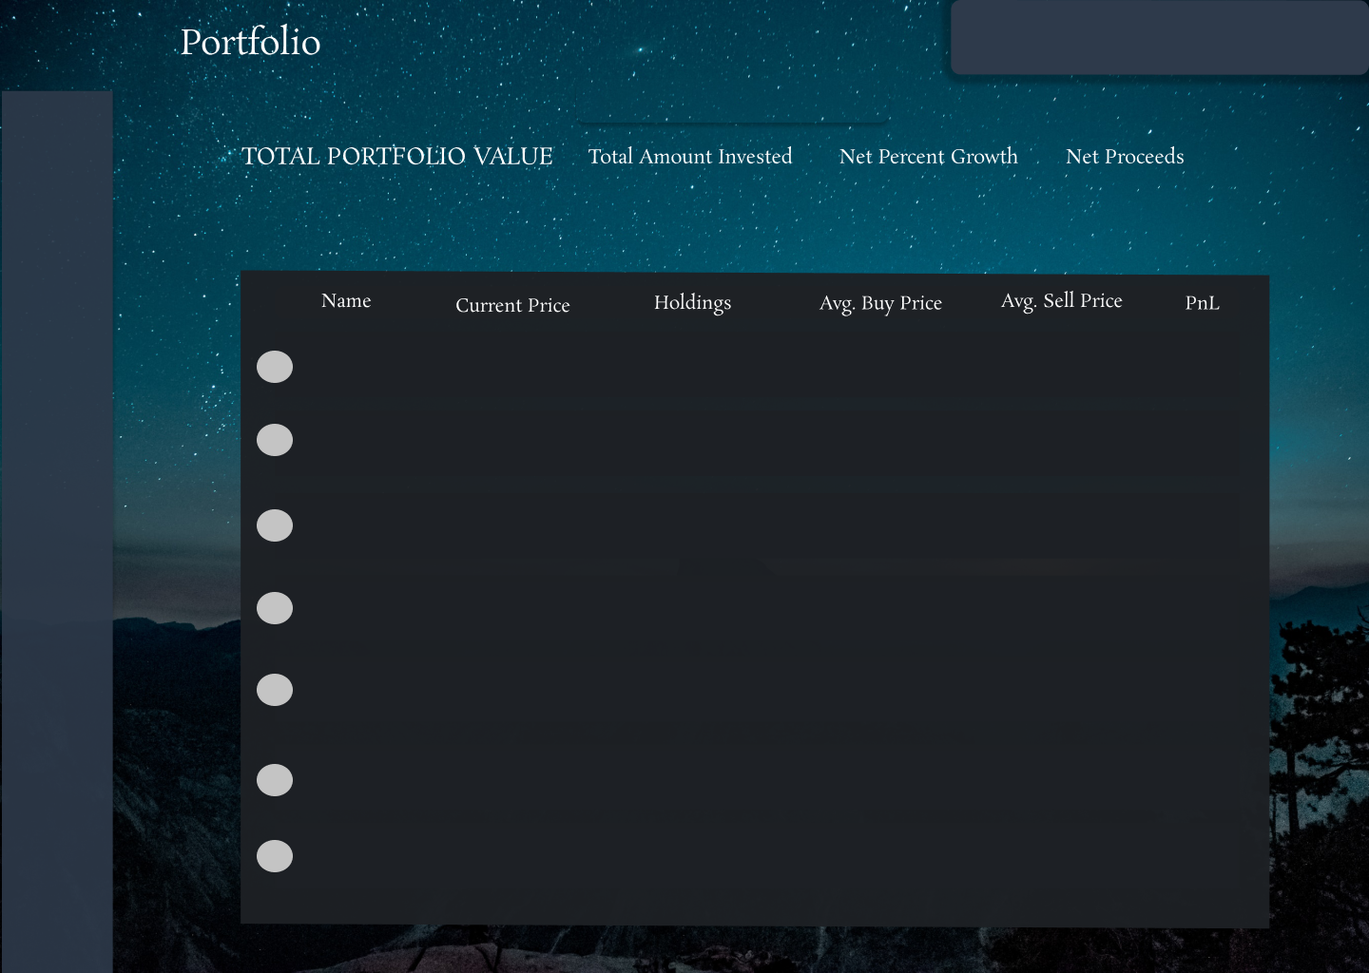
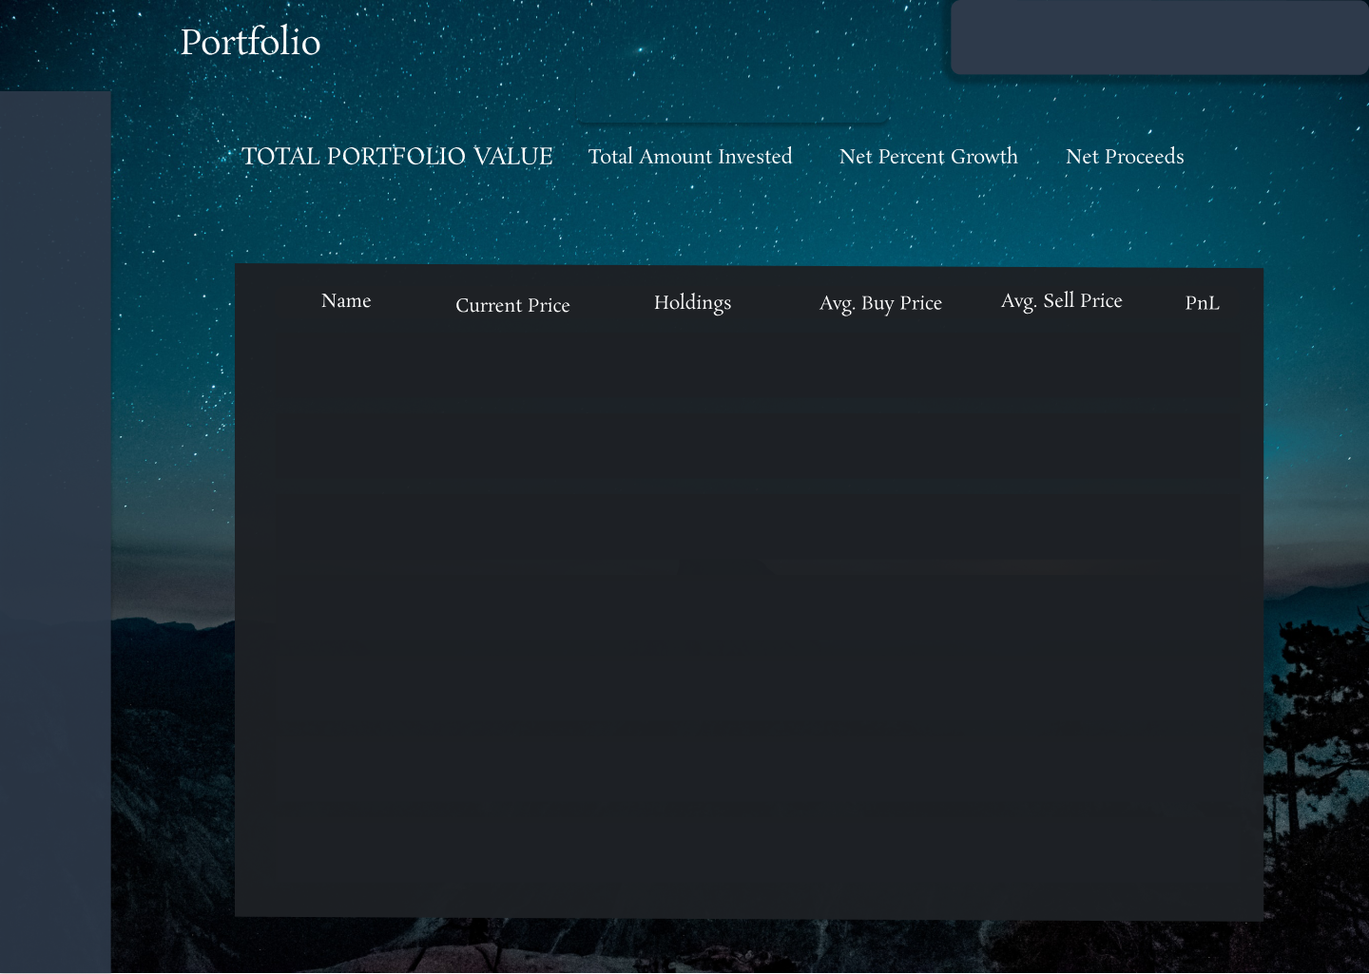
portfolio now generates

diff --git a/user_interface.py b/user_interface.py
@@ -1484,11 +1484,11 @@ class Portfolio(tk.Frame):
 
         flash_delay = 100  # in milliseconds.
 
-        canvas = Canvas(self, bg="#ffffff", height=1024, width=1440, bd=0, highlightthickness=0, relief="ridge")
-        canvas.place(x=0, y=0)
+        self.canvas = Canvas(self, bg="#ffffff", height=1024, width=1440, bd=0, highlightthickness=0, relief="ridge")
+        self.canvas.place(x=0, y=0)
 
         self.background_img = PhotoImage(file=f"Collection of all UI Graphics/portfolio_background.png")
-        canvas.create_image(720.0, 512.0, image=self.background_img)
+        self.canvas.create_image(720.0, 512.0, image=self.background_img)
 
         def AddTransactionClicker():
             """
@@ -1647,8 +1647,9 @@ class Portfolio(tk.Frame):
                     except Exception as error:
                         Error(self, "Input a float")
 
-                    mt = ManualTransaction(0, coin_name, self.is_Buy, price_purchased, amount_purchased,
+                    mt = ManualTransaction(0, coin_name.lower(), self.is_Buy, price_purchased, amount_purchased,
                                            purchase_fee, time_purchased)
+                    print(amount_purchased)
                     Collection_of_canvases[Dashboard].user_data.add_transaction(mt)
                     pop.destroy()
 
@@ -1676,171 +1677,88 @@ class Portfolio(tk.Frame):
         # creates and opens up a log out pop up
         logout_image_path = "Collection of all UI Graphics/dashboard_logout.png"
         self.logout_image = tk.PhotoImage(file=logout_image_path)
-        log_out_button = canvas.create_image(45, 950, anchor='nw', image=self.logout_image)
-        canvas.tag_bind(log_out_button, "<ButtonRelease-1>", lambda event: logout_button_display(self, self.controller))
+        log_out_button = self.canvas.create_image(45, 950, anchor='nw', image=self.logout_image)
+        self.canvas.tag_bind(log_out_button, "<ButtonRelease-1>", lambda event: logout_button_display(self, self.controller))
 
 
-        x = 397
 
-        canvas.create_text(5525, 387, text="First", fill="#ffffff",
-                           font=("SourceCodePro-Regular", int(13.0)))
-        canvas.create_text(725, 360, text="second", fill="#ffffff",
-                           font=("SourceCodePro-Regular", int(13.0)))
-        canvas.create_text(1250.0, 360, text="third", fill="#ffffff",
-                           font=("SourceCodePro-Regular", int(13.0)))
-        canvas.create_text(1250.0, 400, text="fourth", fill="#ffffff",
-                           font=("RopaSans-Regular", int(13.0)))
-        canvas.create_text(725, 400, text="fifth", fill="#ffffff", font=("SourceCodePro-Regular", int(13.0)))
-        canvas.create_text(376.0, 387, text="sixth", fill="#ffffff", font=("Rosarivo-Regular", int(13.0)))
-        canvas.create_text(925, 387, text="sevent", fill="#ffffff", font=("Rosarivo-Regular", int(13.0)))
-        canvas.create_text(1100, 387, text="eight", fill="#ffffff", font=("Rosarivo-Regular", int(13.0)))
-        canvas.create_text(525, 387, text="Bitcoin", fill="#ffffff", font=("Rosarivo-Regular", int(13.0)))
-        canvas.create_text(376.0, x+70 , text="sixth", fill="#ffffff", font=("Rosarivo-Regular", int(13.0)))
-        canvas.create_text(376.0, x + 140, text="sixth", fill="#ffffff", font=("Rosarivo-Regular", int(13.0)))
-        canvas.create_text(376.0, x + 210, text="sixth", fill="#ffffff", font=("Rosarivo-Regular", int(13.0)))
-        canvas.create_text(376.0, x + 280, text="sixth", fill="#ffffff", font=("Rosarivo-Regular", int(13.0)))
-        canvas.create_text(376.0, x + 350, text="sixth", fill="#ffffff", font=("Rosarivo-Regular", int(13.0)))
 
-        """
-        canvas.create_text(601.0, 904.0, text="First", fill="#ffffff", font=("SourceCodePro-Regular", int(13.0)))
-        canvas.create_text(763.0, 886.0, text="Second", fill="#ffffff", font=("SourceCodePro-Regular", int(13.0)))
-        canvas.create_text(1270.0, 895.0, text="Third", fill="#ffffff", font=("SourceCodePro-Regular", int(13.0)))
-        canvas.create_text(1270.0, 917.0, text="0.00%", fill="#ffffff", font=("RopaSans-Regular", int(13.0)))
-        canvas.create_text(763.0, 912.0, text="0", fill="#ffffff", font=("SourceCodePro-Regular", int(13.0)))
-        canvas.create_text(376.0, 905.0, text="-", fill="#ffffff", font=("Rosarivo-Regular", int(13.0)))
-        canvas.create_text(978.5, 191.5, text="0.00%", fill="#ffffff", font=("SourceCodePro-Regular", int(15.0)))
-        canvas.create_text(717.5, 191.5, text="$", fill="#ffffff", font=("SourceCodePro-Regular", int(15.0)))
-        canvas.create_text(1196.5, 191.5, text="$", fill="#ffffff", font=("SourceCodePro-Regular", int(15.0)))
-        canvas.create_text(374.5, 197.5, text="$", fill="#ffffff", font=("SourceCodePro-Regular", int(25.0)))
-        canvas.create_text(1398.5, 68.5, text="John Doe", fill="#ffffff", font=("Rosarivo-Regular", int(12.0)))
-        canvas.create_text(601.0, 387.0, text="$", fill="#ffffff", font=("SourceCodePro-Regular", int(13.0)))
-        canvas.create_text(759.0, 387.0, text="$", fill="#ffffff", font=("SourceCodePro-Regular", int(13.0)))
-        canvas.create_text(1270.0, 378.0, text="$", fill="#ffffff", font=("SourceCodePro-Regular", int(13.0)))
-        canvas.create_text(938.0, 387.0, text="$", fill="#ffffff", font=("SourceCodePro-Regular", int(13.0)))
-        canvas.create_text(938.0, 463.0, text="$", fill="#ffffff", font=("SourceCodePro-Regular", int(13.0)))
-        canvas.create_text(938.0, 549.0, text="$", fill="#ffffff", font=("SourceCodePro-Regular", int(13.0)))
-        canvas.create_text(938.0, 640.0, text="$", fill="#ffffff", font=("SourceCodePro-Regular", int(13.0)))
-        canvas.create_text(938.0, 724.0, text="$", fill="#ffffff", font=("SourceCodePro-Regular", int(13.0)))
-        canvas.create_text(938.0, 818.0, text="$", fill="#ffffff", font=("SourceCodePro-Regular", int(13.0)))
-        canvas.create_text(938.0, 904.0, text="$", fill="#ffffff", font=("SourceCodePro-Regular", int(13.0)))
-        canvas.create_text(1131.0, 387.0, text="$", fill="#ffffff", font=("SourceCodePro-Regular", int(13.0)))
-        canvas.create_text(1131.0, 460.0, text="$", fill="#ffffff", font=("SourceCodePro-Regular", int(13.0)))
-        canvas.create_text(1131.0, 546.0, text="$", fill="#ffffff", font=("SourceCodePro-Regular", int(13.0)))
-        canvas.create_text(1131.0, 637.0, text="$", fill="#ffffff", font=("SourceCodePro-Regular", int(13.0)))
-        canvas.create_text(1131.0, 721.0, text="$", fill="#ffffff", font=("SourceCodePro-Regular", int(13.0)))
-        canvas.create_text(1131.0, 815.0, text="$", fill="#ffffff", font=("SourceCodePro-Regular", int(13.0)))
-        canvas.create_text(1131.0, 901.0, text="$", fill="#ffffff", font=("SourceCodePro-Regular", int(13.0)))
-        canvas.create_text(1270.0, 399.0, text="0.00%", fill="#ffffff", font=("RopaSans-Regular", int(13.0)))
-        canvas.create_text(759.0, 409.0, text="0 ", fill="#ffffff", font=("SourceCodePro-Regular", int(13.0)))
-        canvas.create_text(376.0, 384.0, text="-", fill="#ffffff", font=("Rosarivo-Regular", int(13.0)))
-        canvas.create_text(601.0, 466.0, text="$", fill="#ffffff", font=("SourceCodePro-Regular", int(13.0)))
-        canvas.create_text(763.0, 451.0, text="$", fill="#ffffff", font=("SourceCodePro-Regular", int(13.0)))
-        canvas.create_text(1270.0, 460.0, text="$", fill="#ffffff", font=("SourceCodePro-Regular", int(13.0)))
-        canvas.create_text(1270.0, 482.0, text="0.00%", fill="#ffffff", font=("RopaSans-Regular", int(13.0)))
-        canvas.create_text(763.0, 477.0, text="0", fill="#ffffff", font=("SourceCodePro-Regular", int(13.0)))
-        canvas.create_text(376.0, 470.0, text="-", fill="#ffffff", font=("Rosarivo-Regular", int(13.0)))
-        canvas.create_text(601.0, 562.0, text="$", fill="#ffffff", font=("SourceCodePro-Regular", int(13.0)))
-        canvas.create_text(763.0, 538.0, text="$", fill="#ffffff", font=("SourceCodePro-Regular", int(13.0)))
-        canvas.create_text(1270.0, 547.0, text="$", fill="#ffffff", font=("SourceCodePro-Regular", int(13.0)))
-        canvas.create_text(1270.0, 569.0, text="0.00%", fill="#ffffff", font=("RopaSans-Regular", int(13.0)))
-        canvas.create_text(763.0, 564.0, text="0", fill="#ffffff", font=("SourceCodePro-Regular", int(13.0)))
-        canvas.create_text(376.0, 557.0, text="-", fill="#ffffff", font=("Rosarivo-Regular", int(13.0)))
-        canvas.create_text(601.0, 644.0, text="$", fill="#ffffff", font=("SourceCodePro-Regular", int(13.0)))
-        canvas.create_text(763.0, 625.0, text="$", fill="#ffffff", font=("SourceCodePro-Regular", int(13.0)))
-        canvas.create_text(1270.0, 634.0, text="$", fill="#ffffff", font=("SourceCodePro-Regular", int(13.0)))
-        canvas.create_text(1270.0, 656.0, text="0.00%", fill="#ffffff", font=("RopaSans-Regular", int(13.0)))
-        canvas.create_text(763.0, 651.0, text="0", fill="#ffffff", font=("SourceCodePro-Regular", int(13.0)))
-        canvas.create_text(376.0, 644.0, text="-", fill="#ffffff", font=("Rosarivo-Regular", int(13.0)))
-        canvas.create_text(601.0, 727.0, text="$", fill="#ffffff", font=("SourceCodePro-Regular", int(13.0)))
-        canvas.create_text(763.0, 710.0, text="$", fill="#ffffff", font=("SourceCodePro-Regular", int(13.0)))
-        canvas.create_text(1270.0, 719.0, text="$", fill="#ffffff", font=("SourceCodePro-Regular", int(13.0)))
-        canvas.create_text(1270.0, 741.0, text="0.00%", fill="#ffffff", font=("RopaSans-Regular", int(13.0)))
-        canvas.create_text(763.0, 736.0, text="0", fill="#ffffff", font=("SourceCodePro-Regular", int(13.0)))
-        canvas.create_text(376.0, 729.0, text="-", fill="#ffffff", font=("Rosarivo-Regular", int(13.0)))
-        canvas.create_text(601.0, 822.0, text="$", fill="#ffffff", font=("SourceCodePro-Regular", int(13.0)))
-        canvas.create_text(763.0, 803.0, text="$", fill="#ffffff", font=("SourceCodePro-Regular", int(13.0)))
-        canvas.create_text(1270.0, 812.0, text="$", fill="#ffffff", font=("SourceCodePro-Regular", int(13.0)))
-        canvas.create_text(1270.0, 834.0, text="0.00%", fill="#ffffff", font=("RopaSans-Regular", int(13.0)))
-        canvas.create_text(763.0, 829.0, text="0", fill="#ffffff", font=("SourceCodePro-Regular", int(13.0)))
-        canvas.create_text(376.0, 822.0, text="-", fill="#ffffff", font=("Rosarivo-Regular", int(13.0)))
-        canvas.create_text(378.5, 237.0, text="0.00%", fill="#ffffff", font=("SourceCodePro-Regular", int(15.0)))
-        """
         # Retrieves the images, and configures the dashboard button
         dashboard_image_path = "Collection of all UI Graphics/dashboard_dashboard.png"
         self.dashboard_image = tk.PhotoImage(file=dashboard_image_path)
-        dashboard_image_obj = canvas.create_image(0, 120, anchor='nw', image=self.dashboard_image)
-        canvas.tag_bind(dashboard_image_obj, "<ButtonRelease-1>",
+        dashboard_image_obj = self.canvas.create_image(0, 120, anchor='nw', image=self.dashboard_image)
+        self.canvas.tag_bind(dashboard_image_obj, "<ButtonRelease-1>",
                         lambda event: (flash_hidden(dashboard_image_obj), controller.show_canvas(Dashboard)))
 
         # Retrieves the images, and configures the simulated trading button
         simulated_trading_image_path = "Collection of all UI Graphics/dashboard_simulated_trading.png"
         self.simulated_trading_image = tk.PhotoImage(file=simulated_trading_image_path)
-        simulated_trading_image_obj = canvas.create_image(0, 230, anchor='nw', image=self.simulated_trading_image)
-        canvas.tag_bind(simulated_trading_image_obj, "<ButtonRelease-1>",
+        simulated_trading_image_obj = self.canvas.create_image(0, 230, anchor='nw', image=self.simulated_trading_image)
+        self.canvas.tag_bind(simulated_trading_image_obj, "<ButtonRelease-1>",
                         lambda event: (flash_hidden(simulated_trading_image_obj), controller.show_canvas(CoinInfo)))
 
         # Retrieves the images, and configures the charts button
         charts_image_path = "Collection of all UI Graphics/dashboard_charts.png"
         self.charts_image = tk.PhotoImage(file=charts_image_path)
-        charts_image_obj = canvas.create_image(0, 340, anchor='nw', image=self.charts_image)
-        canvas.tag_bind(charts_image_obj, "<ButtonRelease-1>",
+        charts_image_obj = self.canvas.create_image(0, 340, anchor='nw', image=self.charts_image)
+        self.canvas.tag_bind(charts_image_obj, "<ButtonRelease-1>",
                         lambda event: (flash_hidden(charts_image_obj), controller.show_canvas(Charts)))
 
         # Retrieves the images, and configures the portfolio button
         portfolio_image_path = "Collection of all UI Graphics/dashboard_portfolio.png"
         self.portfolio_image = tk.PhotoImage(file=portfolio_image_path)
-        portfolio_image_obj = canvas.create_image(0, 450, anchor='nw', image=self.portfolio_image)
-        canvas.tag_bind(portfolio_image_obj, "<ButtonRelease-1>",
+        portfolio_image_obj = self.canvas.create_image(0, 450, anchor='nw', image=self.portfolio_image)
+        self.canvas.tag_bind(portfolio_image_obj, "<ButtonRelease-1>",
                         lambda event: (flash_hidden(portfolio_image_obj), controller.show_canvas(Portfolio)))
 
         alarm_image_path = "Collection of all UI Graphics/dashboard_alarms.png"
         self.alarm_image = tk.PhotoImage(file=alarm_image_path)
-        alarm_image_obj = canvas.create_image(0, 560, anchor='nw', image=self.alarm_image)
-        canvas.tag_bind(alarm_image_obj, "<ButtonRelease-1>",
+        alarm_image_obj = self.canvas.create_image(0, 560, anchor='nw', image=self.alarm_image)
+        self.canvas.tag_bind(alarm_image_obj, "<ButtonRelease-1>",
                         lambda event: (flash_hidden(alarm_image_obj), controller.show_canvas(ComingSoon)))
 
         # Retrieves the images, and configures the news button
         news_image_path = "Collection of all UI Graphics/dashboard_news.png"
         self.news_image = tk.PhotoImage(file=news_image_path)
-        news_image_obj = canvas.create_image(0, 670, anchor='nw', image=self.news_image)
-        canvas.tag_bind(news_image_obj, "<ButtonRelease-1>",
+        news_image_obj = self.canvas.create_image(0, 670, anchor='nw', image=self.news_image)
+        self.canvas.tag_bind(news_image_obj, "<ButtonRelease-1>",
                         lambda event: (flash_hidden(news_image_obj), controller.show_canvas(ComingSoon)))
 
         # Retrieves the images, and configures the settings button
         settings_image_path = "Collection of all UI Graphics/dashboard_settings.png"
         self.settings_image = tk.PhotoImage(file=settings_image_path)
-        settings_image_obj = canvas.create_image(0, 780, anchor='nw', image=self.settings_image)
-        canvas.tag_bind(settings_image_obj, "<ButtonRelease-1>",
+        settings_image_obj = self.canvas.create_image(0, 780, anchor='nw', image=self.settings_image)
+        self.canvas.tag_bind(settings_image_obj, "<ButtonRelease-1>",
                         lambda event: (flash_hidden(settings_image_obj), controller.show_canvas(Settings)))
 
         # Retrieves the images, and opens the notifications image
         notifications_image_path = "Collection of all UI Graphics/dashboard_notifications.png"
         self.notifications_image = tk.PhotoImage(file=notifications_image_path)
-        notifications_button = canvas.create_image(1027, 19, anchor='nw', image=self.notifications_image)
-        canvas.tag_bind(notifications_button, "<ButtonRelease-1>", lambda event: notifications_clicker(self))
+        notifications_button = self.canvas.create_image(1027, 19, anchor='nw', image=self.notifications_image)
+        self.canvas.tag_bind(notifications_button, "<ButtonRelease-1>", lambda event: notifications_clicker(self))
 
         # Retrieves the images, and configures the support image
         support_image_path = "Collection of all UI Graphics/dashboard_support.png"
         self.support_image = tk.PhotoImage(file=support_image_path)
-        support_image_obj = canvas.create_image(1155, 16, anchor='nw', image=self.support_image)
-        canvas.tag_bind(support_image_obj, "<ButtonRelease-1>",
+        support_image_obj = self.canvas.create_image(1155, 16, anchor='nw', image=self.support_image)
+        self.canvas.tag_bind(support_image_obj, "<ButtonRelease-1>",
                         lambda event: (flash_hidden(support_image_obj), controller.show_canvas(ComingSoon)))
 
         # Retrieves the images, and configures the profile image
         notes_image_path = "Collection of all UI Graphics/dashboard_notes.png"
         self.notes_image = tk.PhotoImage(file=notes_image_path)
-        notes_image_obj = canvas.create_image(1268, 19, anchor='nw', image=self.notes_image)
-        canvas.tag_bind(notes_image_obj, "<ButtonRelease-1>",
+        notes_image_obj = self.canvas.create_image(1268, 19, anchor='nw', image=self.notes_image)
+        self.canvas.tag_bind(notes_image_obj, "<ButtonRelease-1>",
                         lambda event: (flash_hidden(notes_image_obj), controller.show_canvas(NotesTab)))
 
         # Retrieves the images, and configures the profile image
         profile_image_path = "Collection of all UI Graphics/dashboard_profile_img.png"
         self.profile_image = tk.PhotoImage(file=profile_image_path)
-        profile_image_obj = canvas.create_image(1360, 4, anchor='nw', image=self.profile_image)
-        canvas.tag_bind(profile_image_obj, "<ButtonRelease-1>",
+        profile_image_obj = self.canvas.create_image(1360, 4, anchor='nw', image=self.profile_image)
+        self.canvas.tag_bind(profile_image_obj, "<ButtonRelease-1>",
                         lambda event: (flash_hidden(profile_image_obj), controller.show_canvas(Settings)))
 
-        canvas.create_text(1398.5, 68.5, text="John Doe", fill="#ffffff", font=("Rosarivo-Regular", int(12.0)))
+        self.canvas.create_text(1398.5, 68.5, text="John Doe", fill="#ffffff", font=("Rosarivo-Regular", int(12.0)))
 
         def flash_hidden(image_obj):
             """
@@ -1851,7 +1769,7 @@ class Portfolio(tk.Frame):
             :return: a hidden button when pressed
             """
             set_state(tk.HIDDEN, image_obj)
-            canvas.after(flash_delay, set_state, tk.NORMAL, image_obj)
+            self.canvas.after(flash_delay, set_state, tk.NORMAL, image_obj)
 
         def set_state(state, image_obj):
             """
@@ -1861,18 +1779,18 @@ class Portfolio(tk.Frame):
             :param image_obj: is the image object to apply a state on
             :return: an image object with a state applied
             """
-            canvas.itemconfigure(image_obj, state=state)
+            self.canvas.itemconfigure(image_obj, state=state)
 
         self.entry0_img = PhotoImage(file=f"Collection of all UI Graphics/portfolio_textBox0.png")
-        canvas.create_image(977.0, 251.0, image=self.entry0_img)
+        self.canvas.create_image(977.0, 251.0, image=self.entry0_img)
 
         entry0 = Entry(self, bd=0, bg="#053f53", highlightthickness=0)
         entry0.place(x=856.0, y=235, width=242.0, height=30)
 
         # add transactions button
         self.add_transactions_img = PhotoImage(file=f"Collection of all UI Graphics/portfolio_img12.png")
-        notifications_button = canvas.create_image(1140, 226, anchor='nw', image=self.add_transactions_img)
-        canvas.tag_bind(notifications_button, "<ButtonRelease-1>", lambda event: AddTransactionClicker())
+        notifications_button = self.canvas.create_image(1140, 226, anchor='nw', image=self.add_transactions_img)
+        self.canvas.tag_bind(notifications_button, "<ButtonRelease-1>", lambda event: AddTransactionClicker())
 
         self.all_option_img = PhotoImage(file=f"Collection of all UI Graphics/portfolio_img13.png")
         all_option_button = Button(self, image=self.all_option_img, borderwidth=0, highlightthickness=0, relief="flat")
@@ -1906,6 +1824,46 @@ class Portfolio(tk.Frame):
         self.search_icon = PhotoImage(file=f"Collection of all UI Graphics/portfolio_img19.png")
         search_button = Button(self, image=self.search_icon, borderwidth=0, highlightthickness=0, relief="flat")
         search_button.place(x=1074, y=238, width=30, height=27)
+
+        self.start = 0
+        self.end = 0
+        button = Button(self, text = "Update", command = lambda : self.update())
+        button.place(x=1350, y=800)
+
+
+    def update(self):
+        self.canvas.delete("portfolio")
+        assets = Collection_of_canvases[Dashboard].user_data.build_portfolio()
+        if len(assets) > 7:
+            button = Button(self, text="See More", command=lambda: self.update())
+            button.place(x=1350, y=850)
+
+        if len(assets) - self.start - 7 < 0:
+            self.end = len(assets)
+
+        spacer = 0
+        for x in range(self.start, self.end):
+            row = assets[x]
+            y = 387 + spacer * 85
+            upper_y = 365 + spacer * 85
+            lower_y = 400 + spacer * 85
+            to_print = str(row[0])
+            self.canvas.create_text(376.0, y, text= to_print, fill="#ffffff", font=("Rosarivo-Regular", int(13.0)), tag = "portfolio")
+            to_print = "$ " + str(row[1])
+            self.canvas.create_text(525, y, text=to_print, fill="#ffffff", font=("SourceCodePro-Regular", int(13.0)), tag = "portfolio")
+            to_print = "$ " + str(row[2])
+            self.canvas.create_text(725, upper_y, text=to_print, fill="#ffffff", font=("SourceCodePro-Regular", int(13.0)), tag = "portfolio")
+            to_print = str(row[3])
+            self.canvas.create_text(725, lower_y, text=to_print, fill="#ffffff", font=("SourceCodePro-Regular", int(13.0)), tag = "portfolio")
+            to_print = "$ " + str(row[4])
+            self.canvas.create_text(925, y, text=to_print, fill="#ffffff", font=("Rosarivo-Regular", int(13.0)), tag = "portfolio")
+            to_print = "$ " + str(row[5])
+            self.canvas.create_text(1100, y, text=to_print, fill="#ffffff", font=("Rosarivo-Regular", int(13.0)), tag = "portfolio")
+            to_print = "$ " + str(row[6])
+            self.canvas.create_text(1250.0, upper_y, text=to_print, fill="#ffffff", font=("SourceCodePro-Regular", int(13.0)), tag = "portfolio")
+            to_print = str(row[7]) + "%"
+            self.canvas.create_text(1250.0, lower_y, text=to_print, fill="#ffffff", font=("RopaSans-Regular", int(13.0)), tag = "portfolio")
+            spacer += 1
 
 class CoinInfo(tk.Frame):
     """

diff --git a/database.py b/database.py
@@ -1,7 +1,7 @@
 """ TODO - Document """
 import psycopg2
 from manual_transaction import *
-from weighted_calculator import update_average
+
 
 
 class Database:
@@ -263,6 +263,20 @@ class Database:
                 cursor.close()
                 is_connected.close()
 
+    def update_average(self, curr_avg, curr_amt, new_purchase, new_amt):
+        """
+        this method updates the new average price considering the price of the coin
+        at the time it was bought
+        param curr_avg: float
+        param curr_amt: float
+        param new_purchase: float
+        new_amt: float
+
+        rtype: float
+        """
+
+        return float("{0:.2f}".format((curr_avg + new_purchase) / (curr_amt + new_amt)))
+
     def get_targets(self):
         is_connected = Database.database_connection()
 
@@ -332,7 +346,7 @@ class Database:
             current_avg = self.current_holdings[coin_name]["avg_price"]
             current_amt = self.current_holdings[coin_name]["amount"]
 
-            new_avg = update_average(current_avg, current_amt, new_purchase, new_amt)
+            new_avg = self.update_average(current_avg, current_amt, new_purchase, new_amt)
 
             if transaction.is_buy:
                 current_amt += new_amt
@@ -425,7 +439,7 @@ class Database:
         old_price = 0
         for trans in self.all_transactions:
             if trans.crypto_name == coin_name and not trans.is_buy:
-                old_price = update_average(old_price, old_amount, trans.current_price, trans.num_coins_trading)
+                old_price = self.update_average(old_price, old_amount, trans.current_price, trans.num_coins_trading)
                 old_amount += trans.num_coins_trading
 
         return old_amount
@@ -433,7 +447,7 @@ class Database:
     def build_portfolio(self):
         """
         The portfolio class needs:
-        coin_name, current_price, holdings, avg_price, avg_sell, Pnl%, Pnl$
+        coin_name, current_price, holdings$, holdings%, avg_price, avg_sell, Pnl%, Pnl$
         """
 
         curr_prices = GeckoApi.get_prices(list(self.current_holdings.keys()))
@@ -441,11 +455,12 @@ class Database:
         for key in curr_prices:
             current_price = curr_prices[key]
             holdings = self.current_holdings[key]['amount']
+            holdings_cash = holdings * current_price
             avg_buy = self.current_holdings[key]['avg_price']
             avg_sell = self.avg_sell(key)
-            profit = (current_price- avg_buy) * holdings
+            profit = '{:.2f}'.format((current_price- avg_buy) * holdings)
             percent_change = '{:.2f}'.format((current_price - avg_buy) / avg_buy * 100)
-            list_of_items = [current_price, holdings, avg_buy, avg_sell, profit, percent_change]
+            list_of_items = [key.title(), current_price, holdings_cash, holdings, avg_buy, avg_sell, profit, percent_change]
             result.append(list_of_items)
 
         return result
@@ -454,9 +469,10 @@ class Database:
 
 def main():
     test = Database("hinduhops")
-    mt = ManualTransaction(0,"ethereum", True, 2500, 2, 0, "3/9/2022 04:12" )
+    mt = ManualTransaction(0,"dogecoin", True, .12, 2000, 0, "3/9/2022 04:12" )
     test.add_transaction(mt)
-    print(test.all_transactions)
+
+    print(test.current_holdings)
 
 if __name__ == '__main__':
     main()
